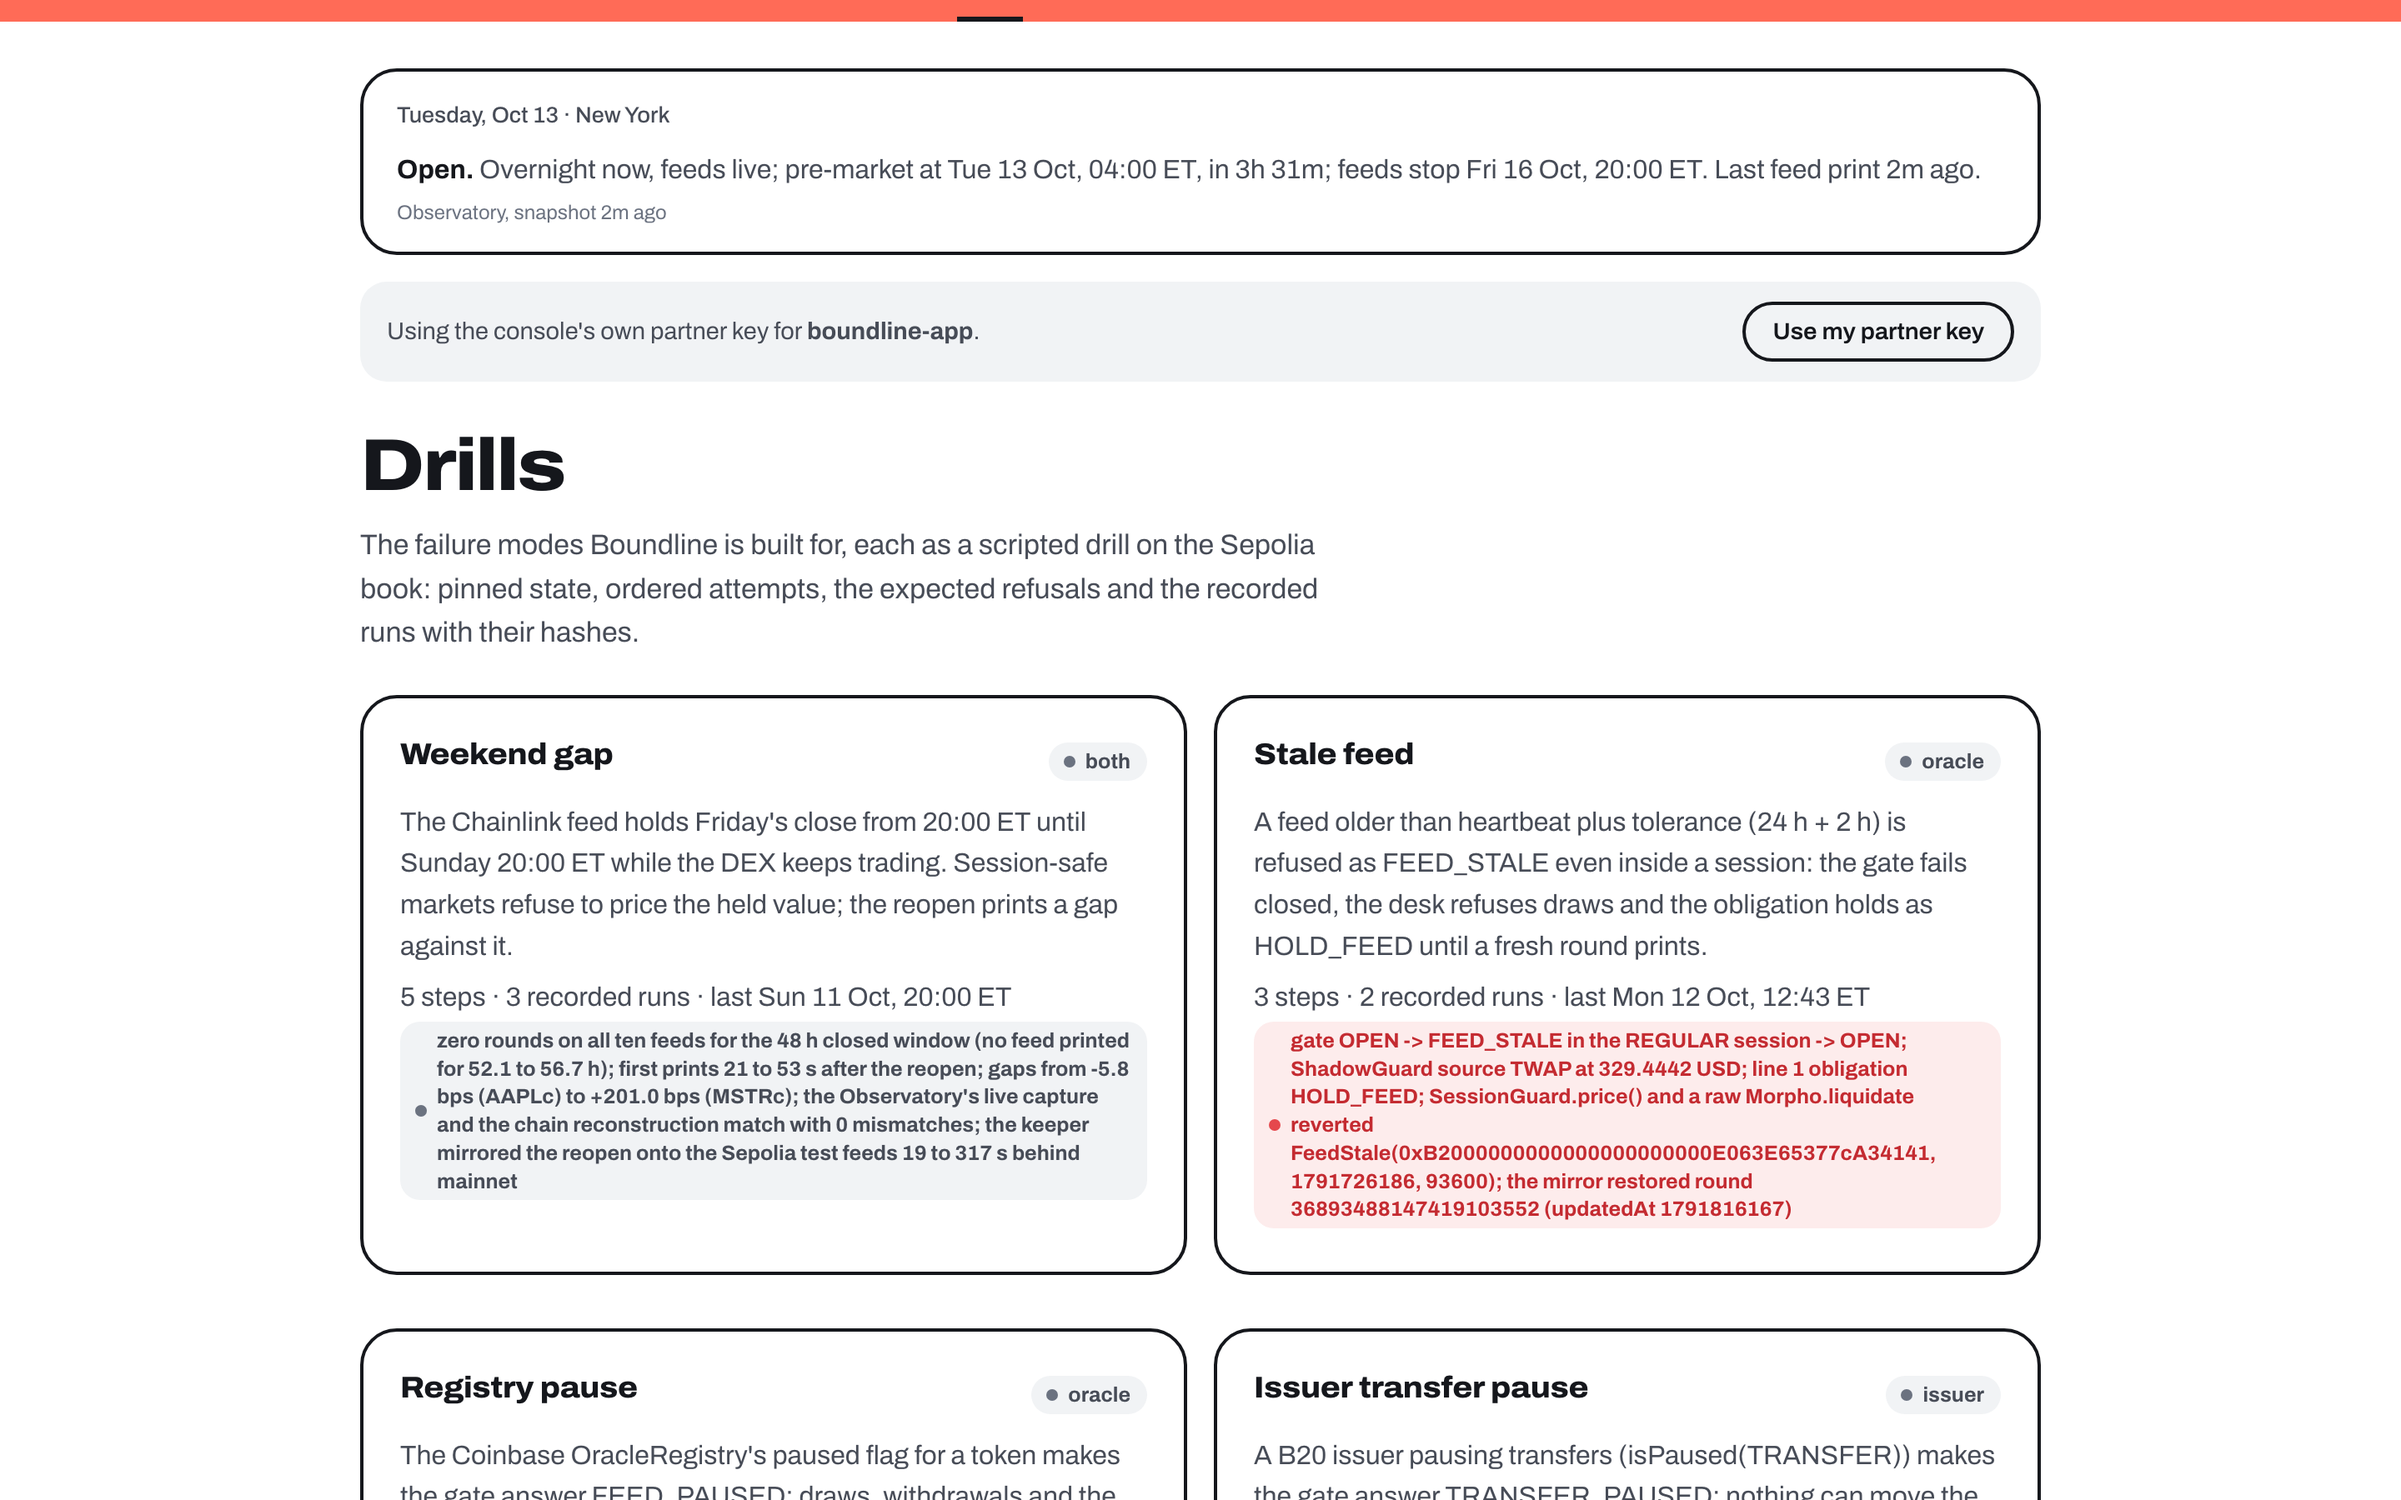
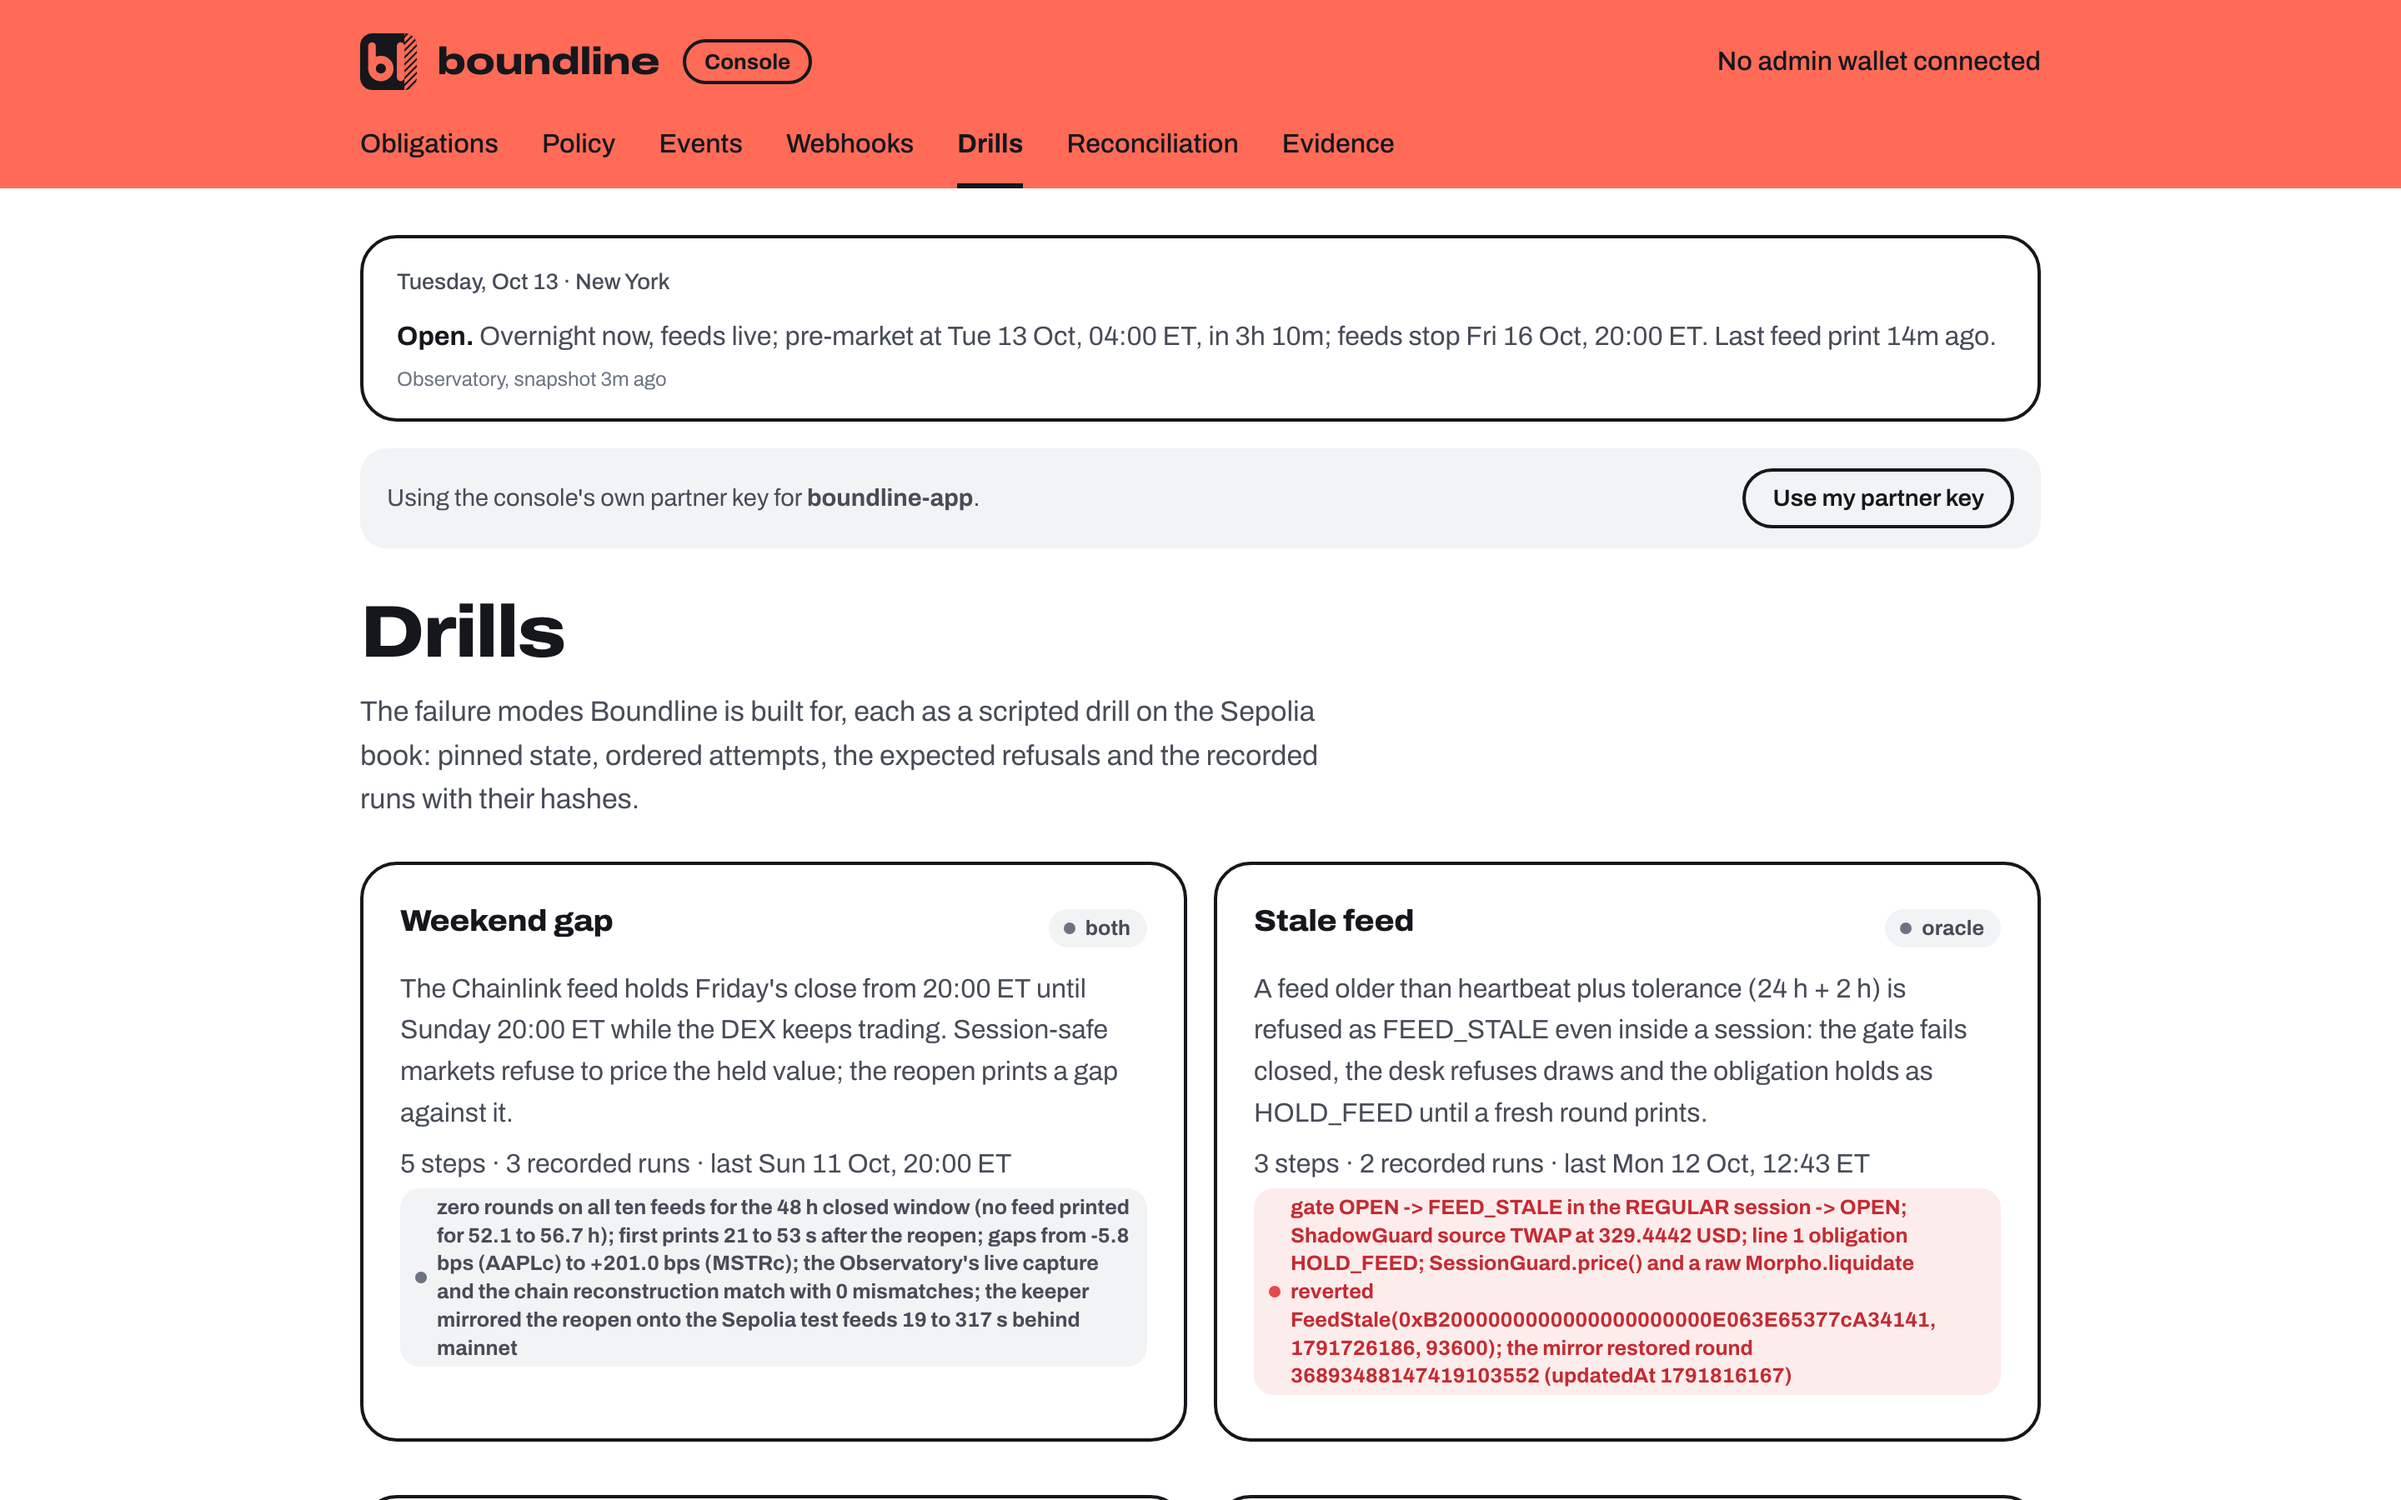
README: the landing and drills screenshots recaptured whole; counts as of 13 Oct (121 commits)
The landing hero is captured at its own height (1440x804) and the drills page at 1440x900, so neither image is
cropped: the earlier crop cut the landing page's navigation bar and the console's header.

Changed region(s): [[0.0, 0.0, 1.0, 0.9333], [0.1562, 0.9333, 0.8438, 1.0], [0.7188, 0.3111, 0.8438, 0.3422]]

diff --git a/docs/submission/SUBMISSION.md b/docs/submission/SUBMISSION.md
@@ -150,7 +150,7 @@ evidence index below):
   market is unseeded and no mainnet borrower has opted into protection yet, so nothing has been lent or protected on
   mainnet; the product runs on Base Sepolia.
 
-**Built in the window:** 120 commits from Sat 3 Oct to Tue 13 Oct 2026 in a new repository; 264 Foundry tests (unit,
+**Built in the window:** 121 commits from Sat 3 Oct to Tue 13 Oct 2026 in a new repository; 264 Foundry tests (unit,
 fuzz, invariant, differential) plus eight mainnet-fork suites that run against an archive RPC; 898 TypeScript tests;
 eight Cloudflare Workers live; the footprint deployed on Base mainnet.
 `TODO-HUMAN: if you commit again before submitting, bump the commit count (git rev-list --count HEAD).`

diff --git a/docs/submission/PUBLIC-REPO-CHECKLIST.md b/docs/submission/PUBLIC-REPO-CHECKLIST.md
@@ -72,7 +72,7 @@ that is fine for a build log.
 
 ## 3. Authorship (Colosseum checks who did the work)
 
-All 120 commits (Sat 3 to Tue 13 Oct 2026) are by `Farseen Shaikh <90364321+FarseenSh@users.noreply.github.com>`.
+All 121 commits (Sat 3 to Tue 13 Oct 2026) are by `Farseen Shaikh <90364321+FarseenSh@users.noreply.github.com>`.
 `TODO-HUMAN: if a second developer is on the roster, their work must be in this repository under their own GitHub
 identity before submission; otherwise the roster is Farseen alone.`
 
